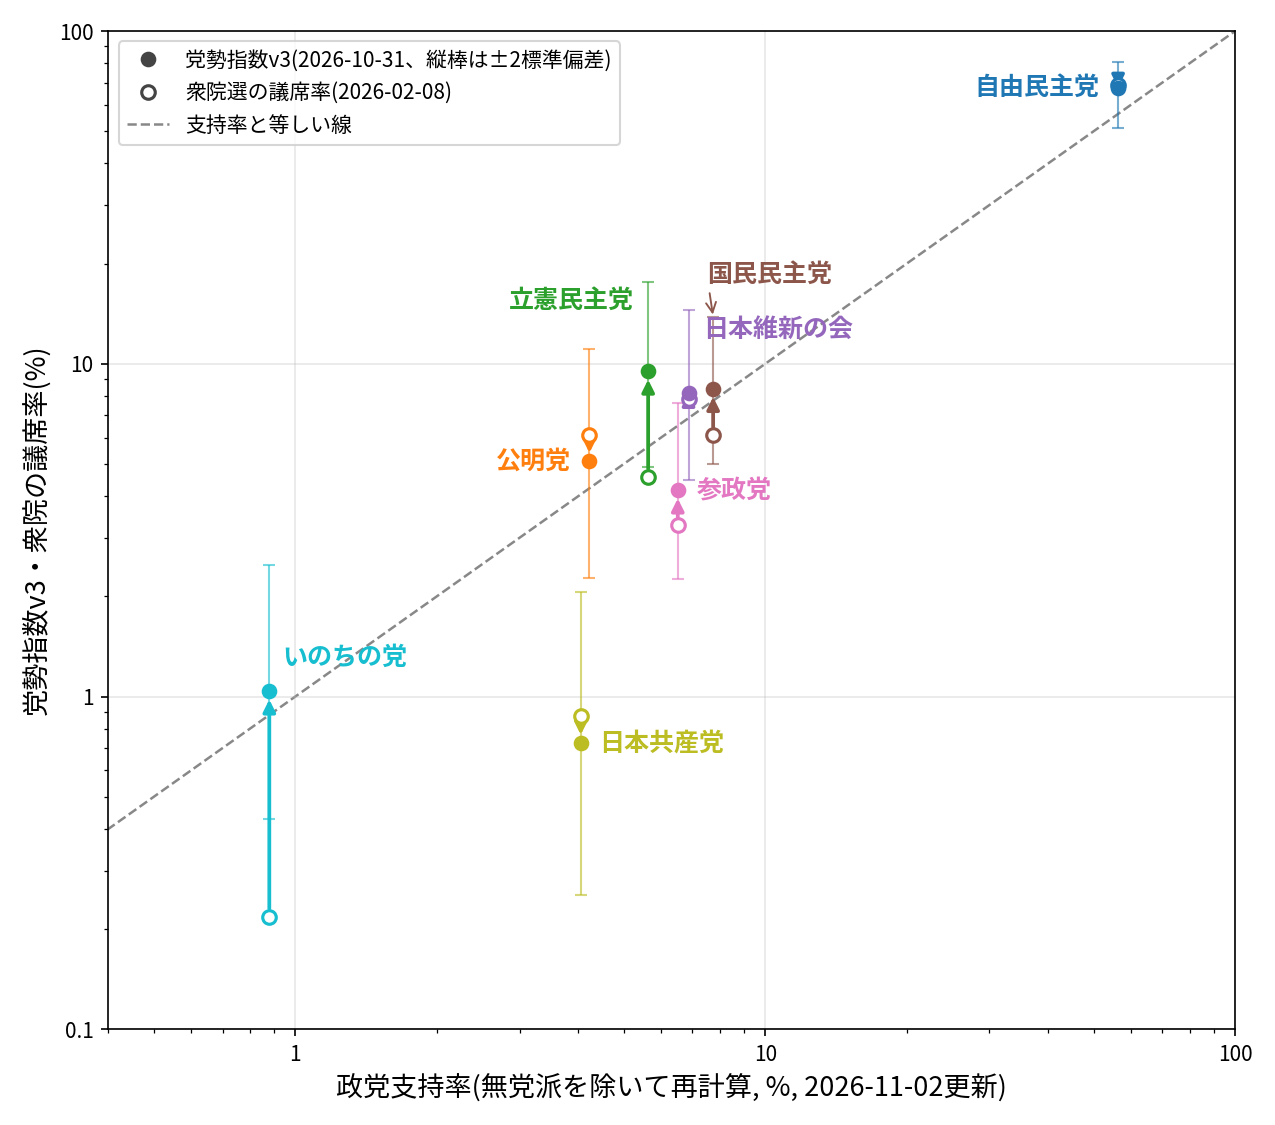
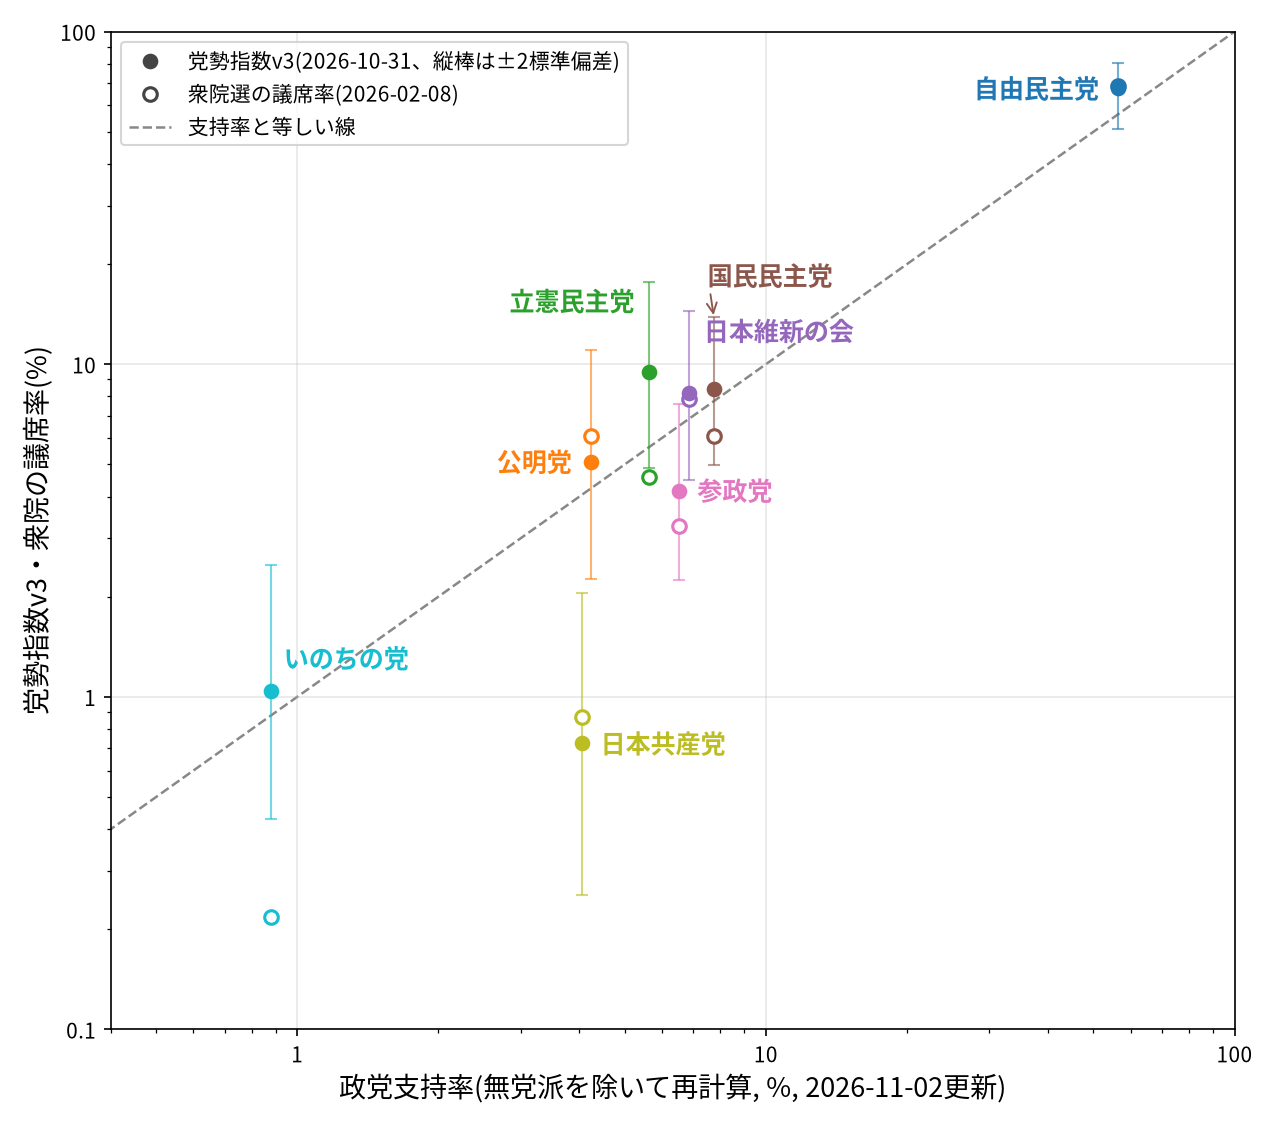
支持率との散布図から衆院選後の動きの矢印を外し、図1に誤差の帯がないことを本文で断り、趨勢モデルの文書ではモデルの形を採らない理由を選択の規則で書き直す

diff --git a/src/seiryoku/charts.py b/src/seiryoku/charts.py
@@ -1283,7 +1283,8 @@ def _place_point_labels(ax, items: list[tuple[str, float, float, str]], obstacle
 
 def generate_trend_support_scatter(result: dict, support: dict, out_path: Path = TREND_SUPPORT_OUT_PATH) -> Path:
     """政党支持率(無党派を除いて再計算)と、党勢指数v3の最新月の値(●、縦棒は±2標準偏差)・
-    直近の衆院選の議席率(○)の散布図。○から●への矢印は、衆院選の後の党勢の動き。
+    直近の衆院選の議席率(○)の散布図。○から●へ矢印は引かない。矢印は衆院選の後に党勢が動いたと
+    読ませるが、○は1回の選挙の観測で、その後の変化もふつうは誤差の範囲に収まる。
     supportはsupport_historyの1件({"updated", "S_p"})。点線は両者が等しいところ。"""
     import matplotlib.ticker as mt
 
@@ -1301,7 +1302,6 @@ def generate_trend_support_scatter(result: dict, support: dict, out_path: Path =
         x = S[party] / total * 100
         y, lo, hi = (s.get(k, s[k.replace("_f", "")]) * 100 for k in ("x_f", "x_f_lo", "x_f_hi"))
         c = colors[party]
-        # 衆院選からの矢印を誤差棒の上で見せるため、誤差棒は薄く描く
         ax.errorbar(x, y, yerr=[[y - lo], [hi - y]], fmt="none", ecolor=c, elinewidth=1.0, capsize=3,
                     alpha=0.6, zorder=2)
         ax.plot(x, y, "o", ms=6.5, color=c, zorder=5)
@@ -1313,8 +1313,6 @@ def generate_trend_support_scatter(result: dict, support: dict, out_path: Path =
             shu_date = last["vote_date"]
             ys = max(last["y"] * 100, 0.11)
             ax.plot(x, ys, "o", ms=6.5, mfc="white", mec=c, mew=1.5, zorder=4)
-            ax.annotate("", (x, y), xytext=(x, ys), zorder=3,
-                        arrowprops=dict(arrowstyle="-|>", color=c, lw=1.8, mutation_scale=12, shrinkA=4, shrinkB=4))
             segs.append((x, min(ys, y), max(ys, y)))
             pts.append((x, ys))
         if party in _SUPPORT_LABEL_FIXED:
